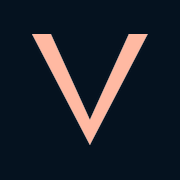
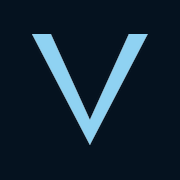
Replace the coral palette with blue, azzurro and white
Drops the pink-orange accent for a monochrome blue system on the same
near-black ground: a saturated blue for pressed states and gradients, a
light azzurro as the reading colour on dark, white for text.

Losing the second hue meant the three list signals could no longer be told
apart by colour alone, so they were re-separated by weight and value:
included ticks in azzurro, add-ons in muted blue-grey, and the
quoted-separately caveats in bold white, which is the one that must not be
missed. Form states moved into the same family.

The logo now sits in white with azzurro on hover, which suits a wordmark
drawn in black and white. Favicons recut in the new accent, and the unused
warm --sand token removed.

Changed region(s): [[0.1667, 0.1667, 0.8333, 0.8056]]

diff --git a/assets/css/styles.css b/assets/css/styles.css
@@ -11,15 +11,13 @@
   --line:rgba(255,255,255,.10);
   --line-strong:rgba(255,255,255,.18);
 
-  --sand:#f4efe6;
   --text:#e8eef4;
   --muted:#9fb2c3;
   --muted-dim:#7c8fa1;
 
-  --accent:#ef8a68;        /* coral — the pressed, saturated end */
-  --accent-lite:#ffb9a2;   /* light pink-orange — the reading colour on dark ground */
-  --accent-ink:#2c110a;    /* warm near-black, for text sitting on the accent */
-  --aqua:#4fd1c5;
+  --accent:#2b7fb6;        /* blue — the pressed, saturated end */
+  --accent-lite:#8fd2f2;   /* azzurro — the reading colour on the dark ground */
+  --accent-ink:#04141f;    /* near-black, for text sitting on the accent */
 
   --wrap:1200px;
   --r-sm:10px;
@@ -80,8 +78,8 @@ p{margin:0 0 1em}
   transition:transform .35s var(--ease),background .35s var(--ease),border-color .35s var(--ease),color .35s var(--ease),box-shadow .35s var(--ease);
 }
 .btn:hover{transform:translateY(-2px)}
-.btn-gold{--btn-bg:linear-gradient(135deg,var(--accent-lite),var(--accent));--btn-fg:var(--accent-ink);--btn-bd:transparent;font-weight:600;box-shadow:0 12px 30px -12px rgba(239,138,104,.55)}
-.btn-gold:hover{box-shadow:0 18px 40px -14px rgba(239,138,104,.75)}
+.btn-gold{--btn-bg:linear-gradient(135deg,var(--accent-lite),var(--accent));--btn-fg:var(--accent-ink);--btn-bd:transparent;font-weight:600;box-shadow:0 12px 30px -12px rgba(43,127,182,.55)}
+.btn-gold:hover{box-shadow:0 18px 40px -14px rgba(43,127,182,.8)}
 .btn-outline{--btn-bd:var(--line-strong)}
 .btn-outline:hover{--btn-bg:rgba(255,255,255,.06);--btn-bd:var(--accent-lite);color:var(--accent-lite)}
 .btn-ghost{--btn-bd:rgba(255,255,255,.35);backdrop-filter:blur(6px)}
@@ -235,7 +233,7 @@ p{margin:0 0 1em}
   transition:transform .45s var(--ease),border-color .45s var(--ease),box-shadow .45s var(--ease);
 }
 .card:hover{transform:translateY(-6px);border-color:var(--line-strong);box-shadow:var(--shadow)}
-.card-feature{border-color:rgba(255,185,162,.45);background:linear-gradient(170deg,#12233a,var(--navy-800))}
+.card-feature{border-color:rgba(143,210,242,.45);background:linear-gradient(170deg,#12233a,var(--navy-800))}
 .ribbon{
   position:absolute;top:1.3rem;right:1.3rem;
   background:linear-gradient(135deg,var(--accent-lite),var(--accent));color:var(--accent-ink);
@@ -257,8 +255,8 @@ p{margin:0 0 1em}
 .incl h3{font-family:var(--serif);font-size:1.45rem;font-weight:600;margin-bottom:1.1rem}
 .ticks{list-style:none;margin:0;padding:0;display:grid;gap:.55rem;color:var(--muted);font-size:.95rem}
 .ticks li{position:relative;padding-left:1.7rem}
-.ticks li:before{content:'✓';position:absolute;left:0;color:var(--aqua);font-size:.85rem}
-.ticks-alt li:before{content:'＋';color:var(--accent-lite)}
+.ticks li:before{content:'✓';position:absolute;left:0;color:var(--accent-lite);font-size:.85rem}
+.ticks-alt li:before{content:'＋';color:var(--muted-dim)}
 
 .fineprint{color:var(--muted-dim);font-size:.82rem;max-width:78ch;margin-top:2rem;line-height:1.65}
 
@@ -306,7 +304,7 @@ p{margin:0 0 1em}
 .field textarea{resize:vertical;min-height:110px}
 .field input::placeholder,.field textarea::placeholder{color:var(--muted-dim)}
 .field input:focus,.field select:focus,.field textarea:focus{outline:none;border-color:var(--accent-lite);background:rgba(255,255,255,.075)}
-.field input:user-invalid{border-color:#e07a5f}
+.field input:user-invalid{border-color:var(--accent-lite);background:rgba(143,210,242,.06)}
 .field select{appearance:none;cursor:pointer;
   background-image:linear-gradient(45deg,transparent 50%,var(--muted) 50%),linear-gradient(135deg,var(--muted) 50%,transparent 50%);
   background-position:calc(100% - 20px) 50%,calc(100% - 14px) 50%;background-size:6px 6px,6px 6px;background-repeat:no-repeat;
@@ -316,8 +314,8 @@ p{margin:0 0 1em}
 
 .form-actions{display:grid;grid-template-columns:1fr;gap:.8rem;margin-top:.4rem}
 .form-status{margin:0;font-size:.9rem;min-height:1.2em}
-.form-status.ok{color:var(--aqua)}
-.form-status.err{color:#e9967a}
+.form-status.ok{color:var(--accent-lite)}
+.form-status.err{color:var(--text);font-weight:500}
 
 /* ---------------- faq ---------------- */
 .faq{display:grid;gap:0;border-top:1px solid var(--line)}
@@ -437,7 +435,7 @@ p{margin:0 0 1em}
 .yacht-photo,.gallery figure{background:var(--navy-700)}
 
 /* costs quoted on top of the charter rate — marked apart from the add-ons */
-.ticks-warn li:before{content:'!';color:var(--accent-lite);font-weight:600}
+.ticks-warn li:before{content:'!';color:var(--text);font-weight:600}
 .ticks-warn{margin-bottom:1.6rem}
 .ticks-warn strong{color:var(--text);font-weight:500}
 .incl-h2{margin-top:0;padding-top:1.4rem;border-top:1px solid var(--line)}
@@ -446,7 +444,7 @@ p{margin:0 0 1em}
 .chef{
   display:flex;gap:.9rem;align-items:flex-start;
   margin:0 0 1.3rem;padding:1rem 1.1rem;
-  background:rgba(255,185,162,.07);border:1px solid rgba(255,185,162,.28);
+  background:rgba(143,210,242,.07);border:1px solid rgba(143,210,242,.26);
   border-radius:var(--r);color:var(--muted);font-size:.94rem;line-height:1.6;
 }
 .chef strong{color:var(--text);font-weight:500}
@@ -458,7 +456,7 @@ p{margin:0 0 1em}
    mask lets it take currentColor, so one asset serves the coral header, the
    muted footer and any future light background — no recoloured copies. */
 .brand-logo{
-  display:block;flex:none;background-color:currentColor;color:var(--accent-lite);
+  display:block;flex:none;background-color:currentColor;color:var(--text);
   -webkit-mask-repeat:no-repeat;mask-repeat:no-repeat;
   -webkit-mask-position:left center;mask-position:left center;
   -webkit-mask-size:contain;mask-size:contain;
@@ -470,7 +468,7 @@ p{margin:0 0 1em}
   width:84px;height:24px;
   -webkit-mask-image:url('../img/viva-mark.png');mask-image:url('../img/viva-mark.png');
 }
-.brand:hover .brand-logo{color:var(--text)}
+.brand:hover .brand-logo{color:var(--accent-lite)}
 
 /* Footer: the complete lockup, large enough for COCONUT GROVE to read. */
 .brand-logo-full{

diff --git a/index.html b/index.html
@@ -22,7 +22,7 @@
 <link rel="preconnect" href="https://fonts.gstatic.com" crossorigin>
 <link href="https://fonts.googleapis.com/css2?family=Cormorant+Garamond:wght@300;400;600&family=Inter:wght@300;400;500;600&display=swap" rel="stylesheet">
 <link rel="preload" as="image" href="assets/img/hero.jpg" fetchpriority="high">
-<link rel="stylesheet" href="assets/css/styles.css?v=2705f580e7">
+<link rel="stylesheet" href="assets/css/styles.css?v=a54fd551a8">
 </head>
 <body>
 
